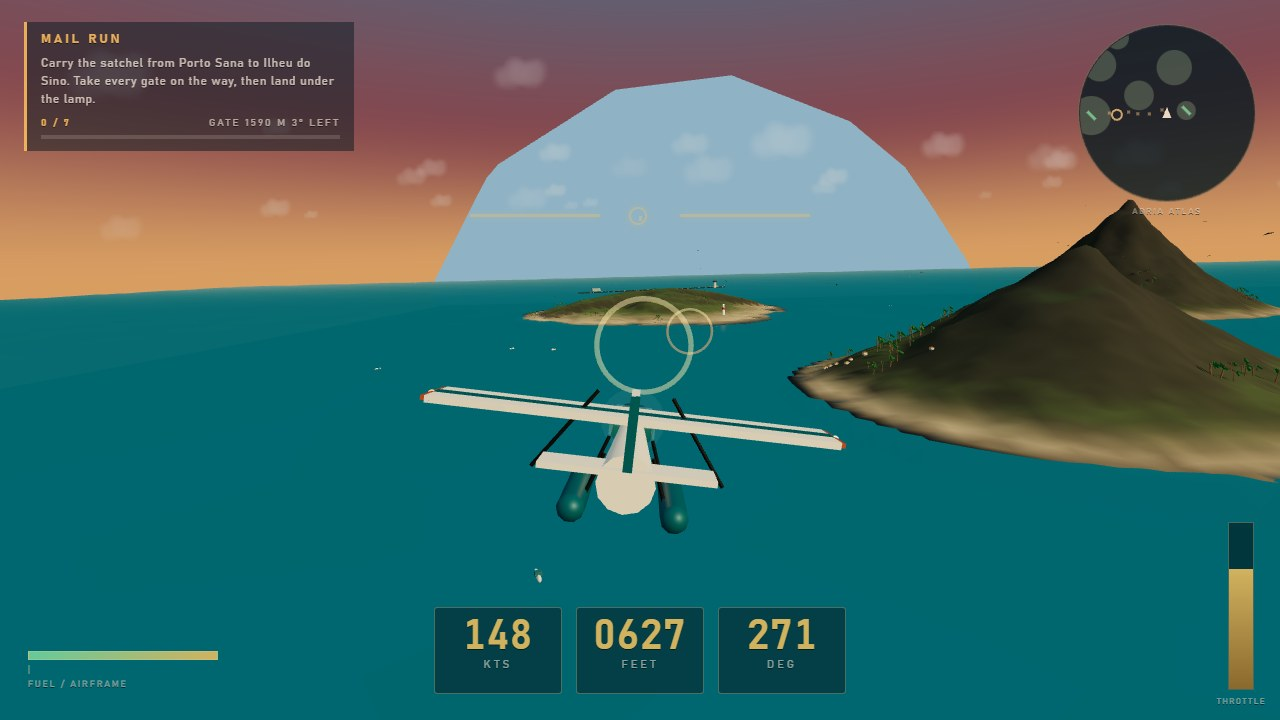
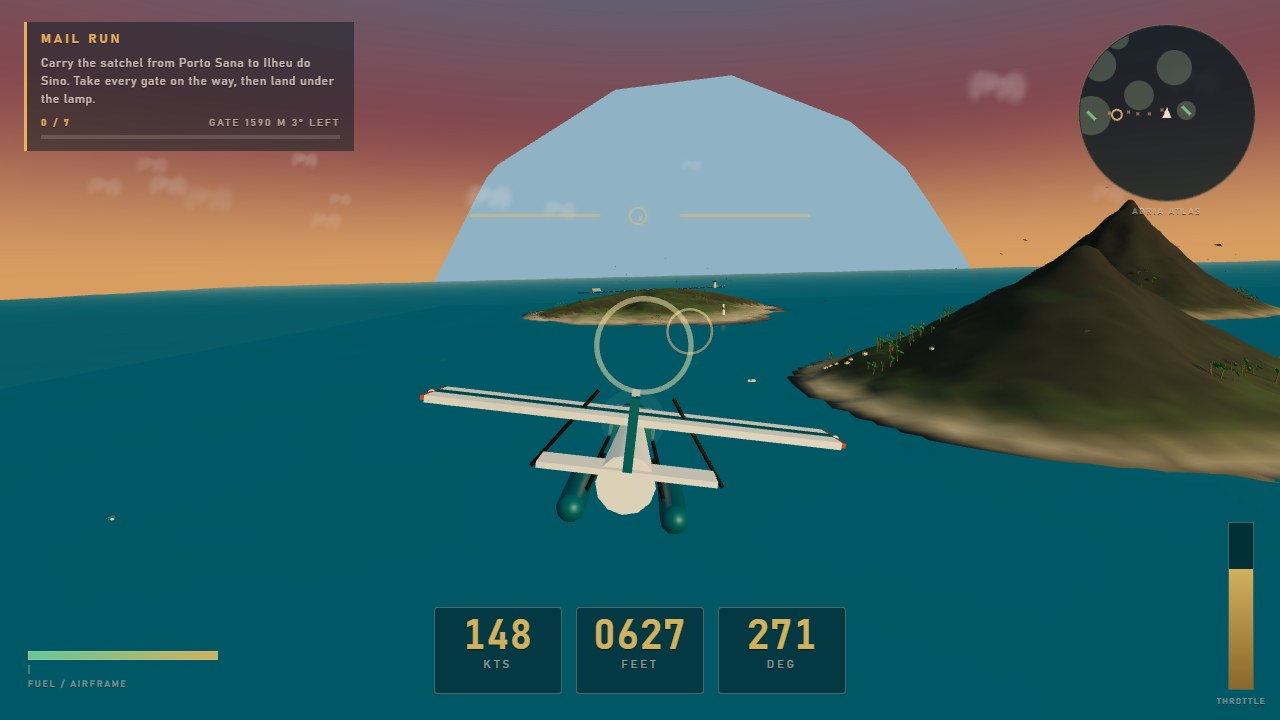
Last light: low sun so it sits in frame, sun-aware gate choice, softer glare

diff --git a/game/src/shots.js b/game/src/shots.js
@@ -67,7 +67,7 @@ export const SHOTS = {
     const gate = pickLowGate(course, 2) ?? null;
     if (!gate) return { kind: 'survey' };
     const from = behindGate(gate, 520, 40);
-    const pose = aim(from, gate.position.clone().add(new THREE.Vector3(0, 16, 0)), { roll: 0.18, pitch: 0.03 });
+    const pose = aim(from, gate.position.clone().add(new THREE.Vector3(0, 10, 0)), { roll: 0.18, pitch: 0.06 });
     const bursts = [];
     const forward = new THREE.Vector3(0, 0, -1).applyQuaternion(pose.quaternion);
     for (let i = 0; i < 4; i++) {
@@ -104,18 +104,30 @@ export const SHOTS = {
 };
 
 // The gate lowest over the water: the one that frames sea behind the wing on the caldera run.
+// The gate lowest over the water AND off the sun's bearing, so the sun sits out at the edge
+// of the frame instead of clipping into it: the one that frames sea behind the wing.
+const SUN_BEARING = Math.atan2(1.92, -1.52);
+
 function pickLowGate(course, from) {
   if (!course) return null;
   let best = null;
   let bestHeight = Infinity;
+  let fallback = null;
+  let fallbackHeight = Infinity;
   for (const gate of course.gates.slice(from)) {
     const height = groundAt(gate.position.x, gate.position.z);
+    const away = Math.cos(Math.atan2(gate.position.x, gate.position.z) - SUN_BEARING);
+    if (height < fallbackHeight) {
+      fallbackHeight = height;
+      fallback = gate;
+    }
+    if (Math.abs(away) > 0.45) continue;
     if (height < bestHeight) {
       bestHeight = height;
       best = gate;
     }
   }
-  return best;
+  return best ?? fallback;
 }
 
 // The gate with the most room around it, so no second ring crops into the frame.

diff --git a/game/src/render/scene.js b/game/src/render/scene.js
@@ -120,7 +120,7 @@ export function buildSky(scene) {
   scene.add(new THREE.HemisphereLight('#cfe2ee', '#6a6150', 1.5));
   scene.add(new THREE.AmbientLight('#9db6c4', 0.6));
 
-  const disc = sunSprite('rgba(255,246,222,0.98)', 'rgba(255,214,150,0)', 940);
+  const disc = sunSprite("rgba(255,246,222,0.98)", "rgba(255,214,150,0)", 640);
   disc.position.copy(sun.position).multiplyScalar(1.6);
   scene.add(disc);
 
@@ -156,7 +156,7 @@ export function buildSky(scene) {
   glitterTex.colorSpace = THREE.SRGBColorSpace;
   const glitter = new THREE.Mesh(
     new THREE.PlaneGeometry(430, 5400),
-    new THREE.MeshBasicMaterial({ map: glitterTex, transparent: true, depthWrite: false, blending: THREE.AdditiveBlending, opacity: 0.26, fog: true })
+    new THREE.MeshBasicMaterial({ map: glitterTex, transparent: true, depthWrite: false, blending: THREE.AdditiveBlending, opacity: 0.2, fog: true })
   );
   const azimuth = Math.atan2(sun.position.x, sun.position.z);
   glitter.rotation.set(-Math.PI / 2, 0, 0);

diff --git a/game/src/config.js b/game/src/config.js
@@ -7,7 +7,7 @@ export const WORLD = {
   maxHeight: 620,
   fogNear: 1500,
   fogFar: 9600,
-  sunElevation: 0.19,  // golden hour
+  sunElevation: 0.075, // last light, sun hard on the water
 };
 
 export const FLIGHT = {
